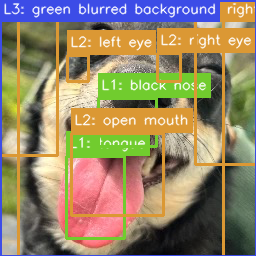
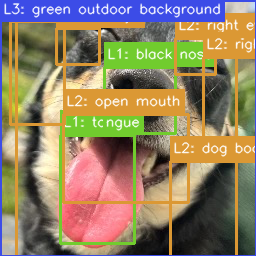
Chore: Update Readme and some results

diff --git a/README.md b/README.md
@@ -5,6 +5,11 @@ Projeto de demonstracao com dois fluxos de raciocinio visual:
 - **LogicRAG**: usa uma base de conhecimento pre-computada do KITTI, traduz factos em First-Order Logic para linguagem natural e envia o contexto para um agente IAedu.
 - **LLaVA-SpaceSGG**: envia uma imagem real para a API IAedu e recebe uma descricao estruturada com objetos, caixas, relacoes espaciais, camadas de profundidade e perguntas/respostas comparativas.
 
+Ambos os fluxos podem correr de duas formas, escolhidas pela variavel `LLM_BACKEND`:
+
+- `iaedu` (predefinicao): envia o pedido para a API IAedu na nuvem.
+- `ollama`: corre um modelo local atraves do Ollama (`llama3` para texto, `llava` para visao), sem internet nem chave de API.
+
 O objetivo do repositorio e deixar um fluxo reproduzivel para demonstracao, screenshots e apresentacao.
 
 ## Estrutura
@@ -19,6 +24,7 @@ O objetivo do repositorio e deixar um fluxo reproduzivel para demonstracao, scre
 +-- LLaVA-SpaceSGG/
 |   +-- dataset_pipeline/stage2/run_iaedu_image.py
 |   +-- dataset_pipeline/stage2/iaedu_client.py
+|   +-- dataset_pipeline/stage2/visualize_layers.py
 |   +-- images_real/
 |   +-- README.md
 +-- .gitignore
@@ -42,6 +48,7 @@ Criar um ficheiro `.env` dentro de `LogicRAG/`:
 OPENAI_API_KEY=colocar_a_chave_iaedu
 OPENAI_API_ENDPOINT=colocar_o_endpoint_stream_iaedu
 IAEDU_CHANNEL_ID=colocar_o_channel_id
+IAEDU_THREAD_ID=colocar_um_thread_id
 ```
 
 Criar um ficheiro `.env` dentro de `LLaVA-SpaceSGG/`:
@@ -149,6 +156,48 @@ Resultado esperado:
 
 - O script envia a imagem para o agente IAedu.
 - O output JSON contem uma descricao da imagem, objetos, bounding boxes, relacoes espaciais, camadas de profundidade e perguntas/respostas comparativas.
+
+Desenhar as camadas de profundidade sobre a imagem (precisa de `opencv-python`):
+
+```powershell
+python .\dataset_pipeline\stage2\visualize_layers.py --result-file .\resultados\teste_iaedu_image.json --output-file .\resultados\visualizacoes\teste_layers.png
+```
+
+Resultado esperado:
+
+- Le as `Layer N: <ref>...</ref><box>[[...]]</box>` do JSON e desenha cada caixa, com uma cor por camada de profundidade.
+- Guarda a imagem anotada no caminho indicado.
+- Nota: voltar a correr `visualize_layers.py` sempre que o JSON for regerado, senao a imagem fica dessincronizada do resultado.
+
+## Demo 3 (Alternativa): Inferencia Local com Ollama
+
+Em vez da nuvem IAedu, os dois fluxos podem correr com modelos locais via Ollama. Util para demonstrar sem internet nem chave de API.
+
+Preparar o Ollama (uma vez):
+
+```bash
+ollama serve            # arrancar o servidor local (fica a correr)
+ollama pull llama3      # modelo de texto para o LogicRAG
+ollama pull llava       # modelo de visao para o LLaVA-SpaceSGG
+```
+
+LogicRAG com Ollama (a partir de `LogicRAG/`):
+
+```bash
+LLM_BACKEND=ollama OLLAMA_MODEL=llama3 python driving_agent.py
+```
+
+LLaVA-SpaceSGG com Ollama (a partir de `LLaVA-SpaceSGG/`):
+
+```bash
+LLM_BACKEND=ollama OLLAMA_VISION_MODEL=llava python dataset_pipeline/stage2/run_iaedu_image.py --image images_real/primeira_imagem.png --output-file resultados/ollama_primeira.json
+```
+
+Notas:
+
+- `LLM_BACKEND` por omissao e `iaedu`; basta defini-la como `ollama` para alternar (no PowerShell usar `$env:LLM_BACKEND="ollama"`).
+- O modelo local `llava` da uma descricao mais solta e nao garante o formato estruturado de boxes 0-999 como a IAedu, por isso o resultado nao e identico ao da nuvem.
+- Em maquinas com pouca RAM, usar modelos mais leves (ex. `OLLAMA_MODEL=llama3.2:3b`).
 
 ## Verificacao Antes de Commit
 